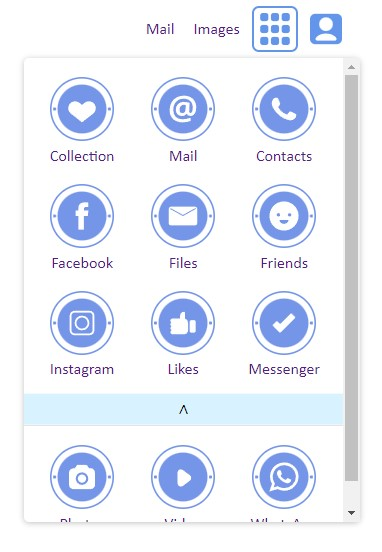
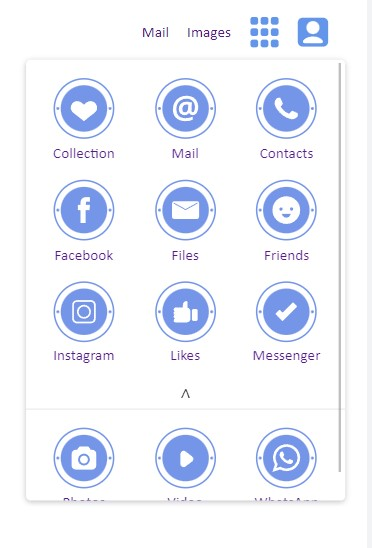
fix a active

diff --git a/css/style.css b/css/style.css
@@ -1,13 +1,14 @@
 * {
-  -webkit-box-sizing: border-box;
   box-sizing: border-box;
   margin: 0;
   padding: 0;
   list-style: none;
 }
 
-a {
+a,
+a:active {
   text-decoration: none;
+  color: #000000;
 }
 
 :focus {
@@ -21,14 +22,8 @@ a {
 
 .navigation__list {
   position: relative;
-  display: -webkit-box;
-  display: -ms-flexbox;
   display: flex;
-  -webkit-box-pack: right;
-  -ms-flex-pack: right;
   justify-content: right;
-  -webkit-box-align: center;
-  -ms-flex-align: center;
   align-items: center;
   margin: 1rem;
 }
@@ -63,7 +58,6 @@ a {
   right: -0.2rem;
   width: 21rem;
   max-height: 29rem;
-  -webkit-box-shadow: 0 1px 6px 0 rgba(32, 33, 36, 0.278);
   box-shadow: 0 1px 6px 0 rgba(32, 33, 36, 0.278);
   border-radius: 5px;
   overflow: auto;
@@ -77,18 +71,9 @@ a {
 }
 
 .popup__box-img {
-  display: -webkit-box;
-  display: -ms-flexbox;
   display: flex;
-  -webkit-box-orient: vertical;
-  -webkit-box-direction: normal;
-  -ms-flex-direction: column;
   flex-direction: column;
-  -webkit-box-pack: center;
-  -ms-flex-pack: center;
   justify-content: center;
-  -webkit-box-align: center;
-  -ms-flex-align: center;
   align-items: center;
   padding: 0.2rem;
 }
@@ -134,7 +119,6 @@ a {
 }
 
 .popup__more-input:checked ~ .popup__more-icon {
-  -webkit-transform: rotate(180deg);
   transform: rotate(180deg);
 }
 

diff --git a/css/style.scss b/css/style.scss
@@ -11,8 +11,10 @@ $hover-color: #d9f2ff;
   list-style: none;
 }
 
-a {
+a,
+a:active {
   text-decoration: none;
+  color: #000000;
 }
 
 :focus {
